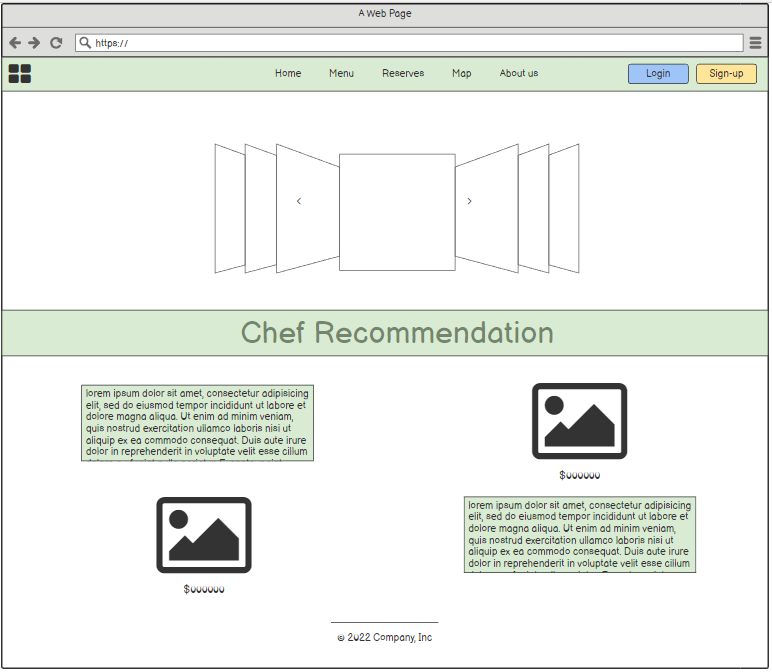
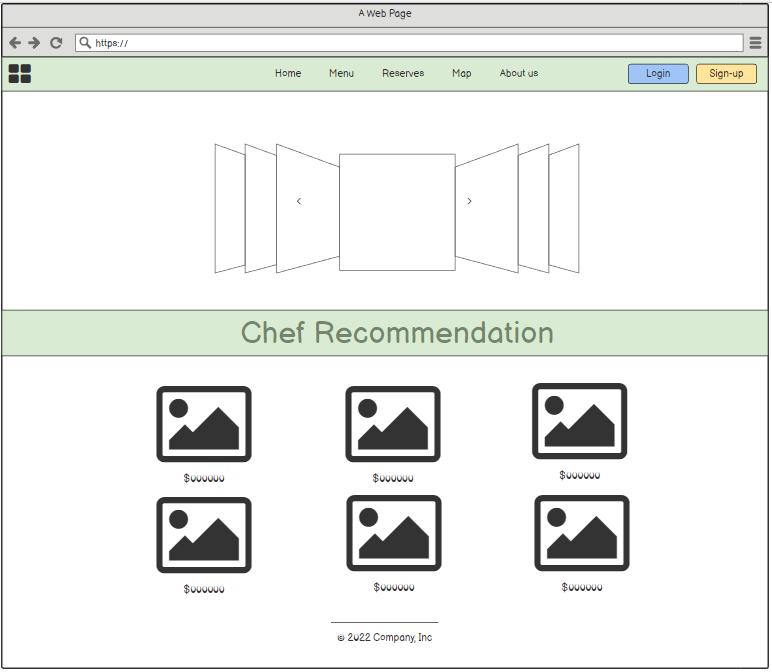
home product list wrapped

Changed region(s): [[0.4352, 0.5625, 0.9016, 0.9062], [0.0933, 0.5625, 0.4041, 0.7188]]

diff --git a/static/home/css/style.css b/static/home/css/style.css
@@ -5,7 +5,7 @@ main{
     /* background: linear-gradient(120deg, #ffe98578 0%, #ffe98578 100%), url('/media/images/background/background.jpg') no-repeat fixed;
     background-position: center;
     background-size: cover; */
-    height: 120vh;
+    height: 130vh;
     width: 100%;    
 }
 
@@ -20,6 +20,23 @@ main{
     flex-direction: column;
     align-items: center;
     justify-content: center;
+    width: 100%;
+}
+
+.recommendation-section .d-flex{
+    justify-content: space-evenly;
+    flex-wrap: wrap;
+    width: 100%;
+}
+
+.card{
+    width: 18rem;
+    height: 315px;
+    margin-bottom: 15px;
+}
+
+.card img{
+    height: 70%;
 }
 
 .container{
@@ -47,21 +64,6 @@ main{
     justify-content: center;
 }
 
-.card{
-    width: 18rem;
-    margin-bottom: 15px;
-}
-
-.card img{
-    height: 70%;
-}
-
-.d-flex{
-    justify-content: space-evenly;
-    align-content: space-evenly;
-    flex-wrap: wrap;
-}
-
 @media (max-width: 1400px){
 
     main{
@@ -77,7 +79,7 @@ main{
 
     main{
         align-items: flex-start !important;
-        height: 120vh;
+        height: 140vh;
     }
 
     .carousel.slide{
